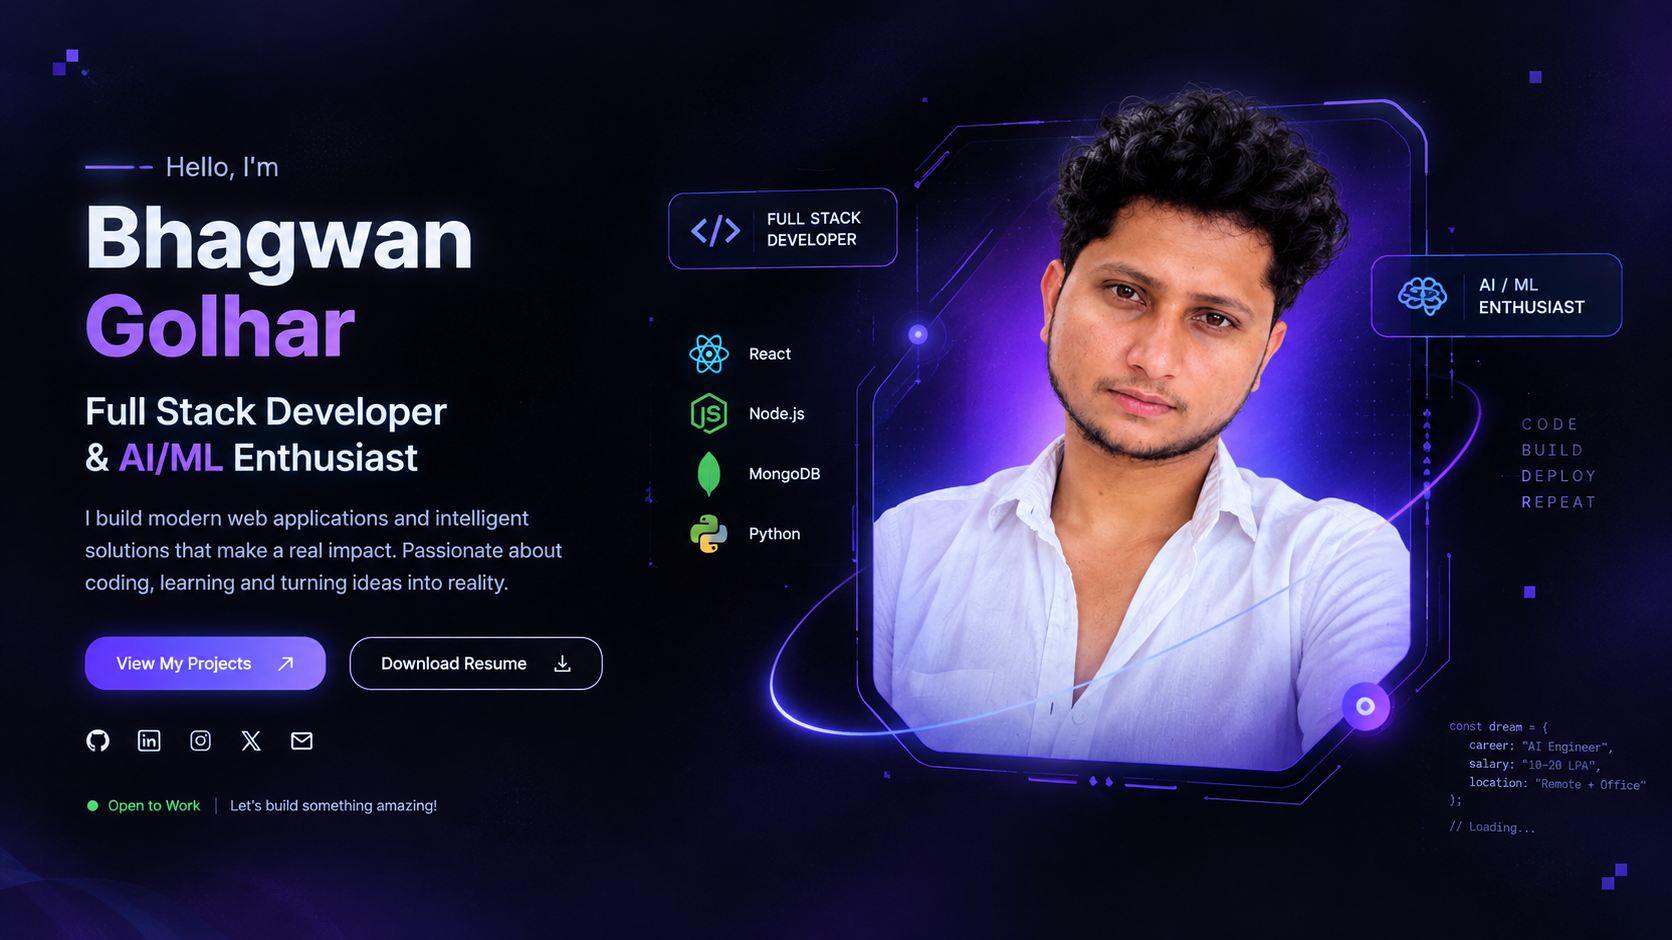
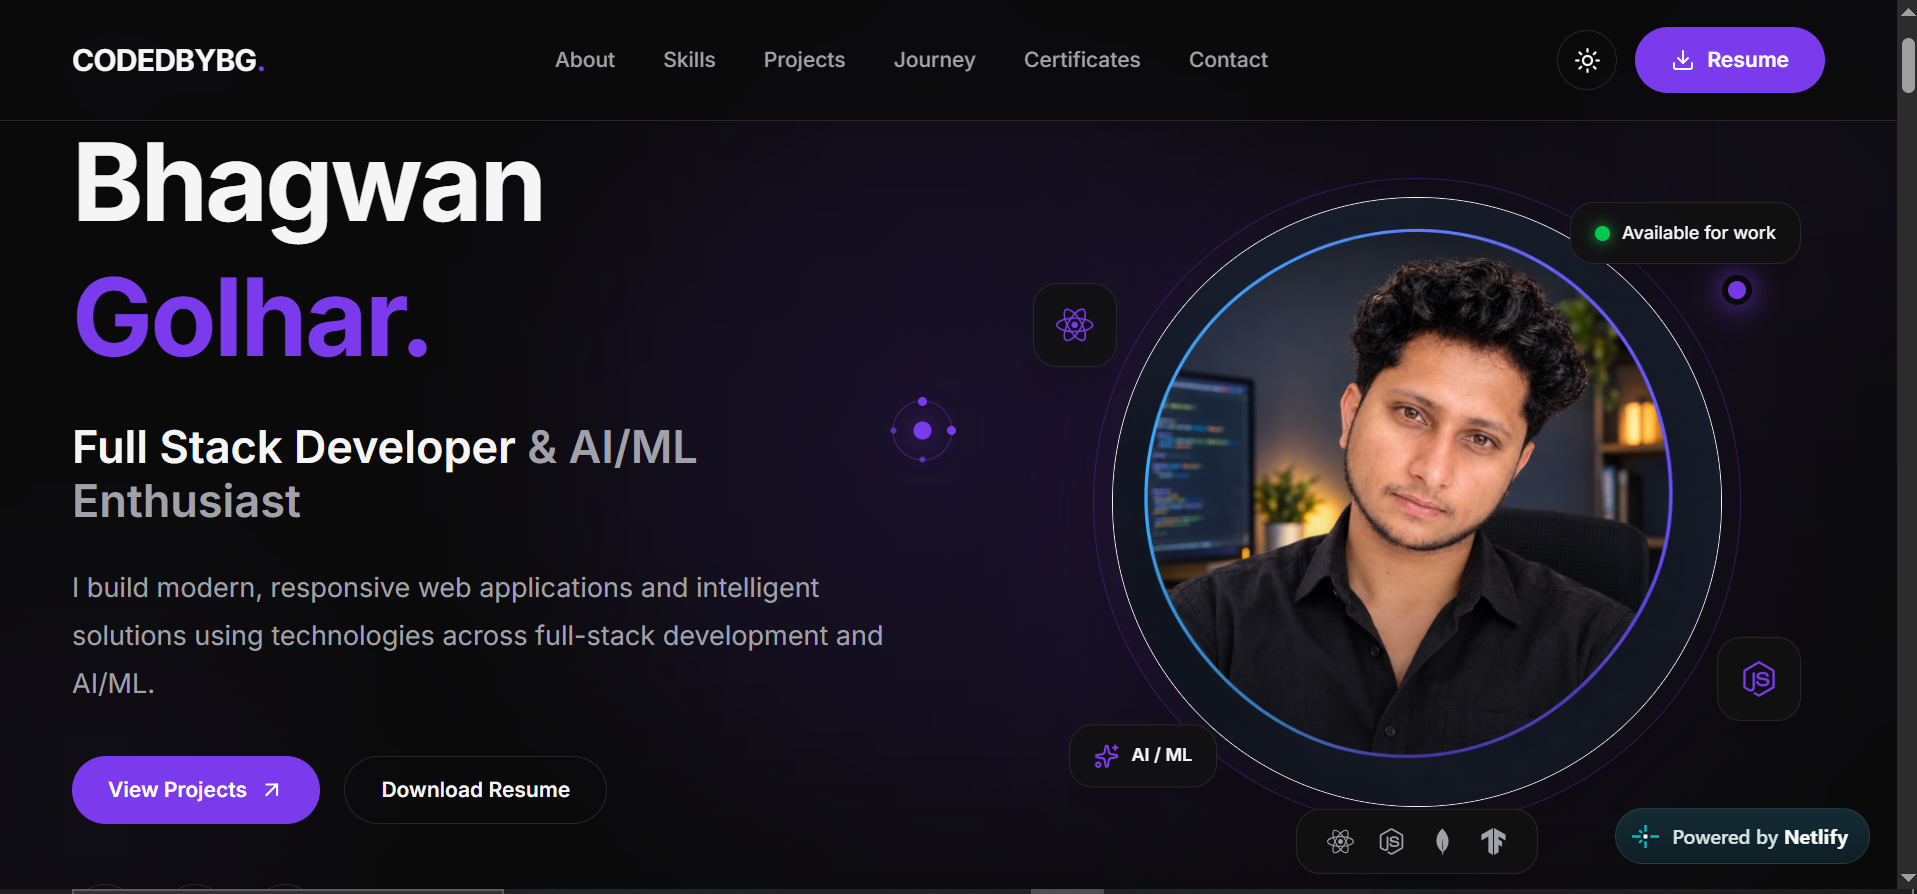
modified footer

diff --git a/frontend/src/components/footer/Footer.jsx b/frontend/src/components/footer/Footer.jsx
@@ -16,7 +16,7 @@ function Footer() {
               href="#home"
               className="text-xl font-bold"
             >
-              BG<span className="text-[var(--accent)]">.</span>
+              CODEDBYBG<span className="text-[var(--accent)]">.</span>
             </a>
 
             <p className="mt-2 max-w-full text-sm text-[var(--muted)]">
